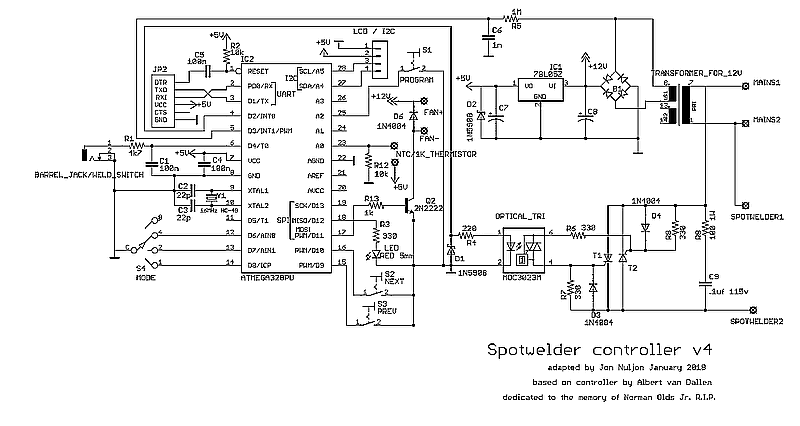
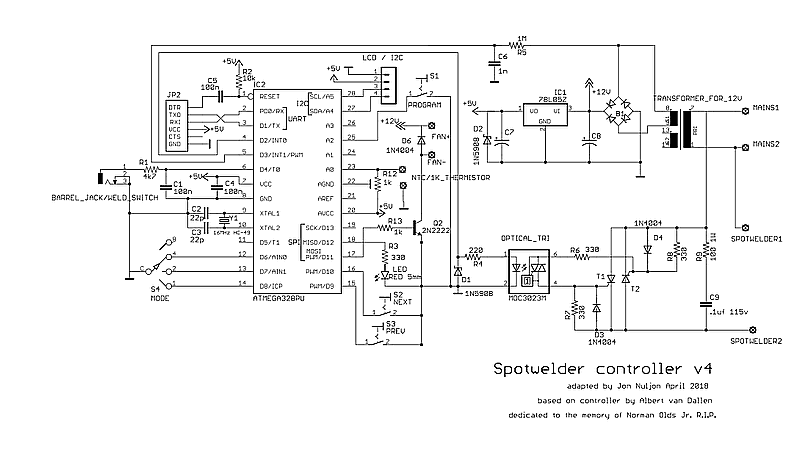
Fixed bug reading temperature in circuit and code. updated schematics

Changed region(s): [[0.0312, 0.0305, 1.0, 0.7629], [0.5938, 0.7934, 0.9062, 0.946]]

diff --git a/ThermalControl.cpp b/ThermalControl.cpp
@@ -89,10 +89,12 @@ void ThermalControl::display(const char* str, const int x, int value) {
 int ThermalControl::getTemperature(void)
 {
 	/*
-	the temperature sensor is a voltage divider using a 1k thermistor (R1) and 10k resistor (R2)
-	calculate the thermistor's resistance using the equation: R1=R2*(Vin / Vout - 1)
+	the temperature sensor is a voltage divider using a 1k thermistor (R2) and 1k resistor (R1)
+	calculate the thermistor's resistance using the Voltage Divider Equation: 
+	V(out) = V(in) * R2 / (R1 + R2) 
+	or R2 = R1 * Vout / (Vin - Vout)
 	Vin is the max possible analog reading (1023) and Vout is read at thermPin (temp)
-	to solve for temperature use Steinhart B Parameter equation:
+	then solve for temperature using Steinhart B Parameter equation:
 	1 / T = 1 / To + 1 / B * ln(R / Ro) where To is room temperature in Kelvin
 	and B = 3986 for the 1k thermistor)
 	*/
@@ -100,11 +102,11 @@ int ThermalControl::getTemperature(void)
 	do {
 		temp = (float)analogRead(thermPin);			// read the voltage signal
 		PRINT("\nsignal on thermPin: ", temp);	// debug PRINT signal to serial
-		temp = 10000.0 * (1023.0 / temp - 1.0);		// R2 * (Vin / Vout - 1)
+		temp = 1000.0 * temp / (1023.0 - temp);		// R1 * Vout / (Vin - Vout)
 		PRINT("\n resistance: ", temp);			// debug PRINT calcd resistance
 		PRINTS(" Ohms");						// debug PRINT units to serial
 		float steinhart;						// we need another variable
-		steinhart = temp / 1000.0;				// (R / Ro)
+		steinhart = temp / 2000.0;				// (R / Ro)
 		steinhart = log(steinhart);				// ln(R / Ro)
 		steinhart /= 3986.0;					// 1/B * ln(R / Ro)
 		steinhart += 1.0 / (25.0 + 273.15);		// + (1 / To)
@@ -137,7 +139,7 @@ uint8_t ThermalControl::runFan(int temp) {		// function to control fan
 			long(thermalControlData.cutOff) - 10L, 50L, 255L); // proportional to temperature
 		analogWrite(fanPin, fanSpeed);			// send PWM signal to transistor that drives fan
 	}
-	return (fanSpeed);							// send the temperature back to caller
+	return (fanSpeed);							// send the fanspeed back to caller
 }
 void ThermalControl::display() {				// function displays status on lcd (temp and fan speed)
 	lcd.setRGB(0, 0, 255);						// light the display - default is blue 0,0,255

diff --git a/WeldPattern.cpp b/WeldPattern.cpp
@@ -15,10 +15,10 @@ void WeldPattern::pulseWeld(unsigned long pulse, Button& weldButton, const uint8
 	while (!stop) {
 		digitalWrite(controlPin, HIGH);				// turn on the weld current
 		PRINTS("\n zzzzzzzzzt");					//debug PRINT
-		if (pulse == 0l) {
+		if (pulse == 0l) {							// pulse is set to continuous
 			stop = weldButton.read();				// stop if button not pressed
 			PRINT("\nweld button status: ", weldButton.read());//debug PRINT button
-		}
+		}											// otherwise
 		else stop = (millis() >= start + pulse);	// stop on reaching pulse length
 		int temperature = thermalControl.getTemperature(); // thermal control can suspend weld loop
 	}
@@ -38,14 +38,14 @@ void WeldPattern::weld(Button& weldButton)
 	weld(weldButton, controlPin);
 }
 void WeldPattern::weld(Button& weldButton, const uint8_t& controlPin) {
-	PRINTS("\n Not DETECTING ZEROCROSSING .........."); // disabled start() for debug
+	
 	PRINT("\n executing weld pattern: ", int(weldData.preWeldPulse));//debug PRINT legth of prew-weld pulse
 	PRINT("/", int(weldData.pausePulse));			//debug PRINT length of pause
 	PRINT("/", int(weldData.weldPulse));			//debug PRINT length of weld pulse
-	//start();										// detect zerocrossing and time the pulse start
+	start();										// detect zerocrossing and time the pulse start
 	pulseWeld(this -> weldData.preWeldPulse, weldButton, controlPin);
 	pause(this -> weldData.pausePulse);
-	//start();										// detect zerocrossing and time the pulse start
+	start();										// detect zerocrossing and time the pulse start
 	pulseWeld(this -> weldData.weldPulse, weldButton, controlPin);
 }
 // TODO handle screen writes displaying greater than 16 columns
